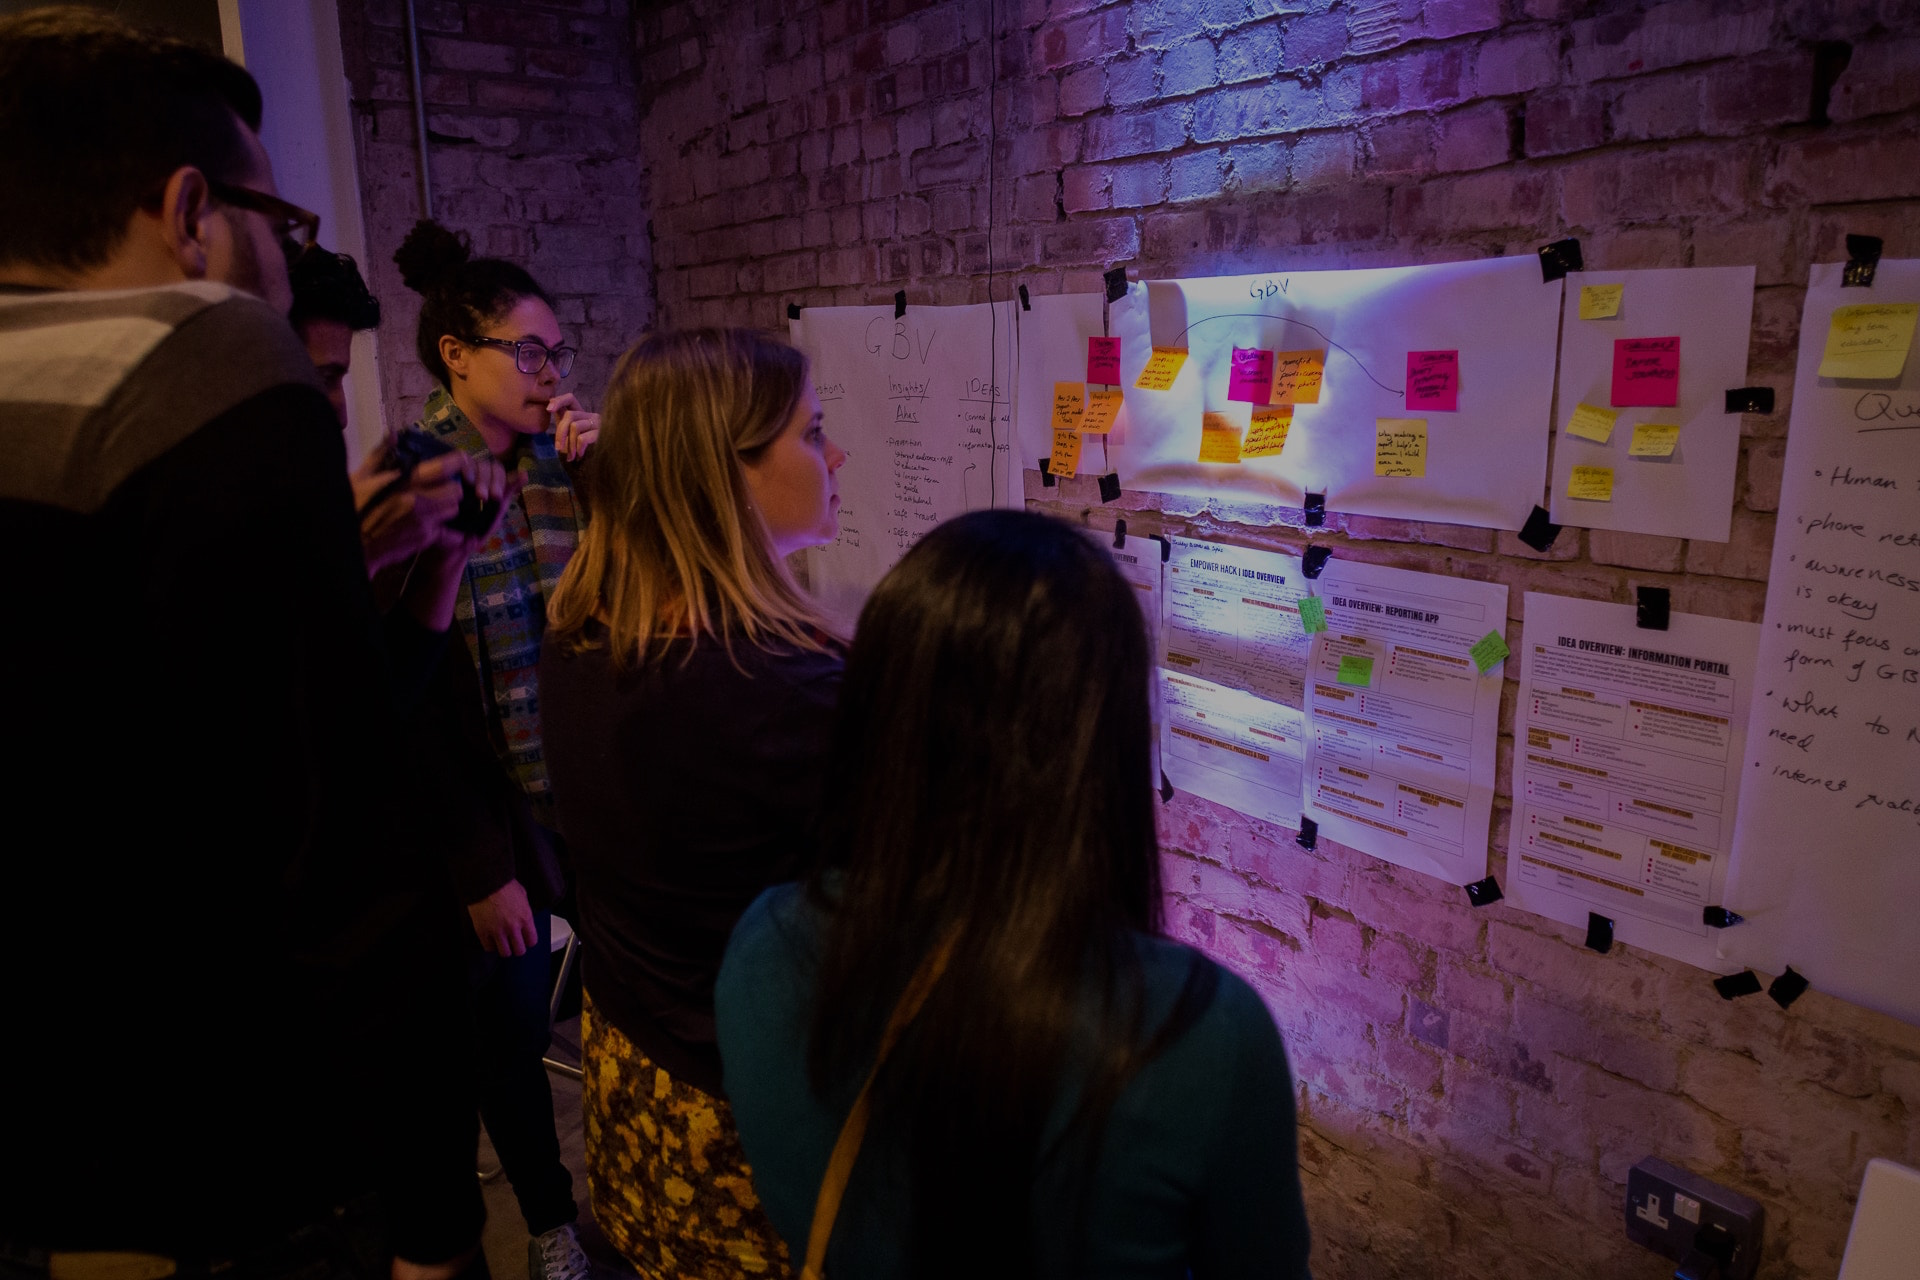
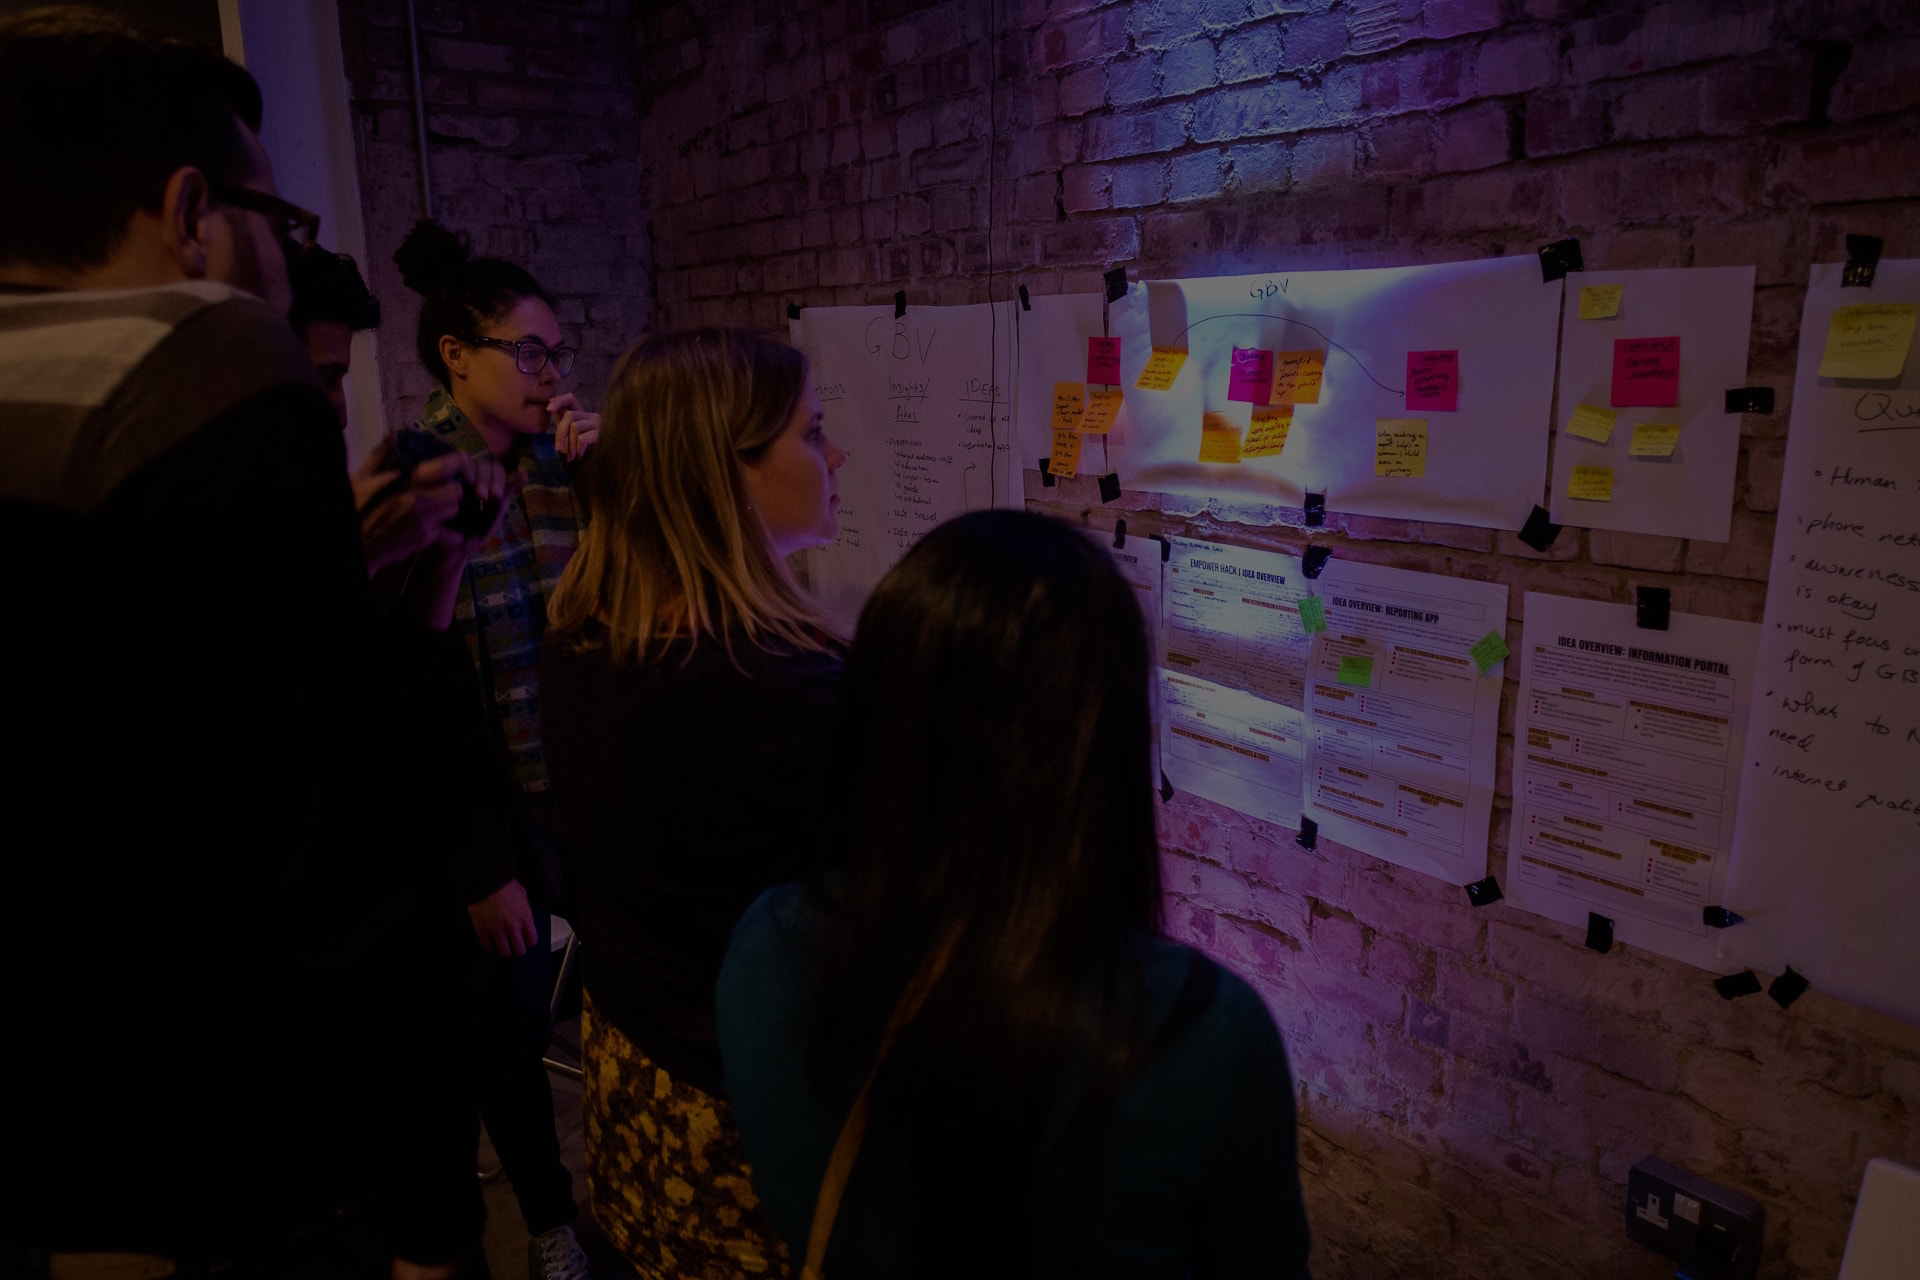
Added brief content for empowerhack and herstory + darkend images to make it less busy and distracting

diff --git a/hack-pack.html b/hack-pack.html
@@ -33,18 +33,14 @@
               <p>EmpowerHack is a collective that brings creates sustainable design for women and girls in humanitarian contexts. Bridging the gap between technology, design, and NGOs to address key challenges, Empower Hack galvanises volunteers to create code that crosses borders.</p>
             </div>
             <div class="col-xs-12 col-md-6">
-              <h3>Why are we tackling issues about refugees?</h3>
-              <p>Lorem ipsum dolor sit amet, consectetur adipiscing elit, sed do eiusmod tempor incididunt ut labore et dolore magna aliqua. Ut enim ad minim veniam.</p>
+              <h3>What is HerStory?</h3>
+              <p>HerStory will be a safe place where women and girls can choose to anonymously share their stories, listen and support each other with responses. We aim to be as accessible as possible, capturing stories and later offering mental health support.</p>
             </div>
           </div>
           <div class="boxes">
-            <div class="col-xs-12 col-md-6">
-              <h3>Why HerStory - why this app?</h3>
-              <p>Lorem ipsum dolor sit amet, consectetur adipiscing elit, sed do eiusmod tempor incididunt ut labore et dolore magna aliqua. Ut enim ad minim veniam, tempor incididunt ut labore et dolore magna aliqua. Ut enim ad minim veniam.</p>
-            </div>
-            <div class="col-xs-12 col-md-6">
-              <h3>Why not leave it to the other apps out there?</h3>
-              <p>Lorem ipsum dolor sit amet, consectetur adipiscing elit, sed do eiusmod tempor incididunt ut labore et dolore magna aliqua. Ut enim ad minim veniam, lorem ipsum dolor sit amet, consectetur adipiscing elit, sed do eiusmod tempor incididunt ut labore et dolore magna aliqua. Ut enim ad minim veniam.</p>
+            <div class="col-xs-12 col-md-6 position central">
+              <h3>Why are we tackling issues about refugees?</h3>
+              <p>Despite up to 80% of world’s refugees being women and children, the problems faced by them are never at the forefront. Female refugees are among the most vulnerable, facing sexual violence, coercion, forced and early marriage, social isolation, and a lack of access to gender-specific health care and education.</p>
             </div>
           </div>
         </div>
